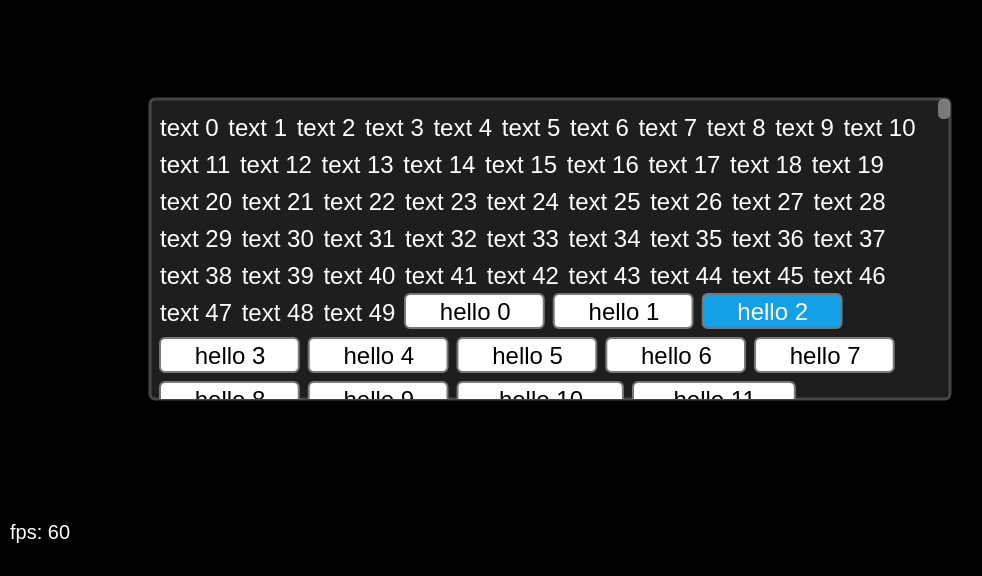
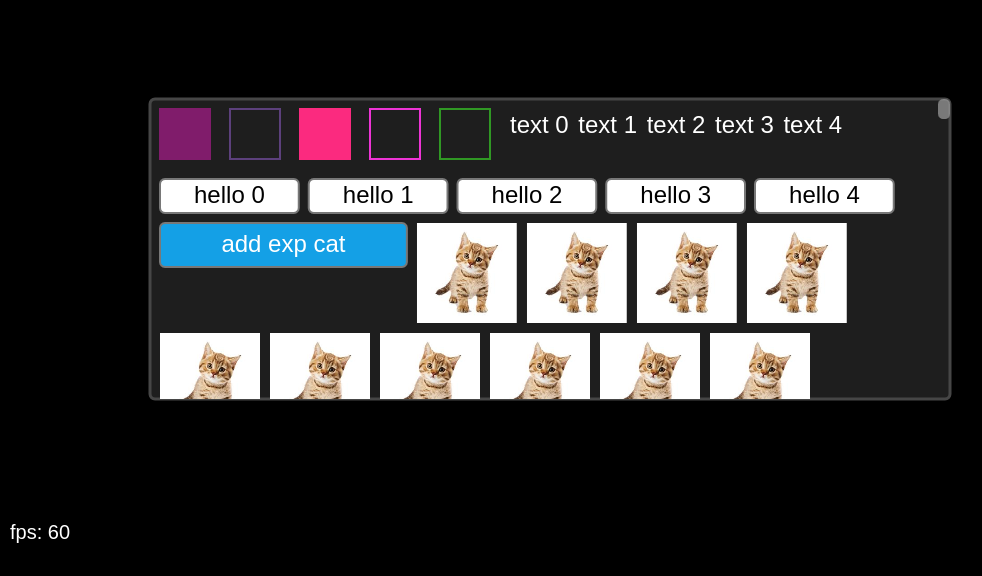
cat

Changed region(s): [[0.1527, 0.1875, 0.947, 0.7188]]

diff --git a/script.js b/script.js
@@ -26,6 +26,7 @@ const canvas = document.getElementById("canvas");
     - [x] box item
     - [ ] spacer item (occupies whole row or space defined by the user)
     - [x] text item
+    - [x] align text
     - [x] button item
     - [ ] image item
     - [ ] checkbox item
@@ -53,8 +54,8 @@ layout.y = 100;
 // layout.add(other_layout);
 
 // add x boxes
-for (let i = 0; i < 0; i++) {
-    const size = Math.max(Math.floor(Math.random() * 50), 20);
+for (let i = 0; i < 5; i++) {
+    const size = 50;
     const box = new BoxWidget(size, size);
 
     const should_include_background = Math.random() * 1 > 0.5;
